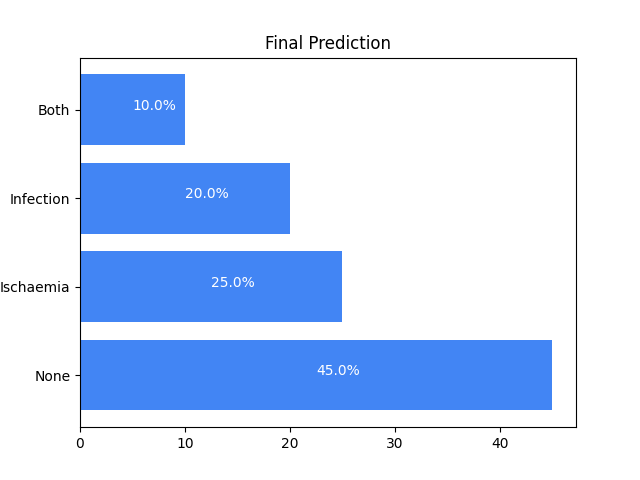
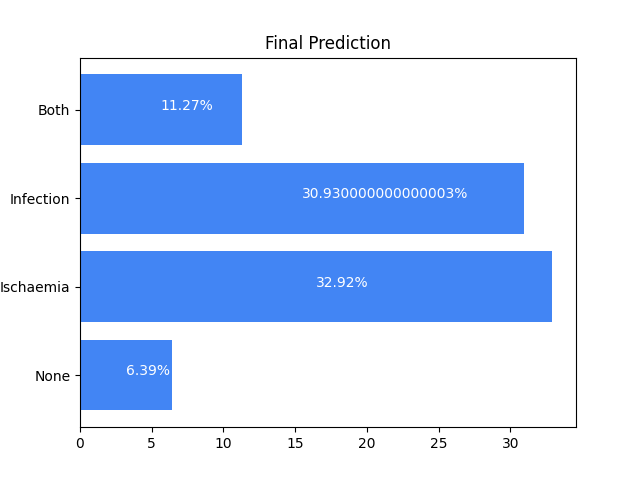
added dummy funcs, linked valuess and connect...
...results page

1. footValid is a dummy function that will be used to validate if
the user has uploaded a foot image or not
2. sending the values from the upload page to the results page
3. linked the results page to the upload page

diff --git a/upload/templates/image_form.html b/upload/templates/image_form.html
@@ -10,16 +10,16 @@
 
 
     <!-- reset the web page on hitting refresh -->
-    {% if up %}
-        {% for message in messages %}
-            <p>{{ message }}</p>
-        {% endfor %}
-        <script>
-            if ( window.history.replaceState ) {
-                window.history.replaceState( null, null, window.location.href );
-            }
-        </script>
-    {% endif %}
+    
+    {% for message in messages %}
+        <p>{{ message }}</p>
+    {% endfor %}
+    <script>
+        if ( window.history.replaceState ) {
+            window.history.replaceState( null, null, window.location.href );
+        }
+    </script>
+    
 
   
 {% endblock%}

diff --git a/results/templates/bar_chart.html b/results/templates/bar_chart.html
@@ -3,6 +3,7 @@
 
 {%block content%}
 
+
 <center><img src="../images/barchart.png" /></center>
 
 <canvas id="myChart" width="800" height="400"></canvas>

diff --git a/upload/views.py b/upload/views.py
@@ -12,7 +12,9 @@ import os
 from datetime import datetime
 import random
 from .dfuc import dfuc
-
+from django.core.validators import validate_image_file_extension
+from .footValid import footValid
+# declare vals variable to use in results\views.py
 
 config = {
     "apiKey": "AIzaSyDC2DsvGtSfGsLyavQdvpW7oi4BfXtm2RY",
@@ -32,15 +34,15 @@ storage = firebase.storage()
 data = {}
 uploaded = False
 
-
-
 def image_request(request):
     if request.method == "POST":
         form = UserImage(request.POST, request.FILES)
-        if form.is_valid():
+        img_object = form.instance
+        
+        if form.is_valid() and footValid(img_object.image):
 
-            form.save()
-            img_object = form.instance
+            #removing since redundant copies in sqlite
+            # form.save()
             a = random.randint(0, 10000)
             #pushing image to cloud storage from local
             sto = storage.child('img_'+str(a)).put(img_object.image)
@@ -50,6 +52,7 @@ def image_request(request):
             
             img_url = storage.child('img_'+str(a)).get_url(sto['downloadTokens'])
 
+            # improve this, lags realtime
             dt = datetime.now().strftime("%Y-%M-%D %H:%M:%S")
 
 
@@ -58,7 +61,8 @@ def image_request(request):
             data['img'] = img_url
 
 
-            vals = dfuc(img_object.image)
+            set_vals([i for i in dfuc(img_object.image)])
+
             data['c1'] = vals[0]
             data['c2'] = vals[1]
             data['c3'] = vals[2]
@@ -79,17 +83,21 @@ def image_request(request):
             messages.success(request, "File upload in Firebase Storage successful")
             uploaded = True
 
-            return render(
-                request, "image_form.html", {"form": form, "img_obj": img_object, "up":uploaded}
-            )
-    else:
-        form = UserImage()
+            # link to results page
+            return redirect('results')
+        else:
+        
+            messages.success(request,'Not a valid image file')
 
+    form = UserImage()
     return render(request, "image_form.html", {"form": form})
 
+def get_vals():
+    return vals
+
+def set_vals(v):
+    global vals
+    vals = v
+
 def results(request):
-    
     return render(request, "results.html")
-
-
-

diff --git a/upload/migrations/0002_alter_uploadimage_image.py b/upload/migrations/0002_alter_uploadimage_image.py
@@ -1,0 +1,22 @@
+# Generated by Django 4.1.7 on 2023-04-24 12:27
+
+import django.core.validators
+from django.db import migrations, models
+
+
+class Migration(migrations.Migration):
+
+    dependencies = [
+        ("upload", "0001_initial"),
+    ]
+
+    operations = [
+        migrations.AlterField(
+            model_name="uploadimage",
+            name="image",
+            field=models.ImageField(
+                upload_to="images",
+                validators=[django.core.validators.validate_image_file_extension],
+            ),
+        ),
+    ]

diff --git a/upload/models.py b/upload/models.py
@@ -3,13 +3,14 @@ import random
 from django.utils import timezone
 # fix this 'datetime.datetime' has no attribute 'timedelta'
 from datetime import datetime, timedelta
+from django.core.validators import validate_image_file_extension
 
 
 class UploadImage(models.Model):
     
     created_at = models.DateTimeField(auto_now_add=True)
     # add 5.5 hours to datetimefield
-    image = models.ImageField(upload_to="images")
+    image = models.ImageField(upload_to="images", validators=[validate_image_file_extension])
 
     def __str__(self):
         pass

diff --git a/results/views.py b/results/views.py
@@ -7,12 +7,15 @@ rc('text', usetex=True)
 matplotlib.use('Agg')
 from matplotlib import pyplot as plt
 import numpy as np
+import upload.views as uv
+
 # Bar Chart
 def barchart(request):
     objects = ['Both','Infection','Ischaemia','None']
     y_pos = np.arange(len(objects))
     # multiply prob by 100 to adjust to %age
-    c = [0.10,0.20,0.25,0.45]
+    # c = [0.10,0.20,0.25,0.45]
+    c = uv.get_vals()
     qty = [i*100 for i in c]
 
     plt.rcdefaults()

diff --git a/config/urls.py b/config/urls.py
@@ -5,7 +5,7 @@ from django.conf import settings
 from django.conf.urls.static import static
 
 urlpatterns = [path("admin/", admin.site.urls),
- path("", include(("upload.urls"))),
- path("results", include(("results.urls")))]
+ path("", include(("upload.urls"))),# home page
+ path("results", include(("results.urls")))] # results page
 if settings.DEBUG:
     urlpatterns += static(settings.MEDIA_URL, document_root=settings.MEDIA_ROOT)

diff --git a/upload/urls.py b/upload/urls.py
@@ -1,7 +1,13 @@
 from django.urls import path
 from . import views
+# from '../results' import views as rv
+# from results import views
+# add import for barchart
+from results.views import barchart
 
 
 urlpatterns = [
     path("", views.image_request, name="image_request"),
+    # add path to barchart view in project/results/urls.py
+    path("results", barchart, name="results"),
 ]

diff --git a/upload/dfuc.py b/upload/dfuc.py
@@ -1,6 +1,7 @@
 import random
 
 def dfuc(im):
-    random_floats = [random.uniform(0, 1) for _ in range(4)]
+    # create an array that generates 4 numbers randomly between 0 and 1 and rounds them to 2 decimal places
+    random_floats = [round(random.uniform(0, 1), 4) for _ in range(4)]
 
     return random_floats

diff --git a/config/settings.py b/config/settings.py
@@ -25,7 +25,7 @@ SECRET_KEY = "django-insecure-x!%^4b64a#k9dly6aek#3v$0n(+%)q$nnl-x$f^wb^itklf@*-
 # SECURITY WARNING: don't run with debug turned on in production!
 DEBUG = True
 
-ALLOWED_HOSTS = []
+ALLOWED_HOSTS = ['127.0.0.1', 'localhost']
 
 
 # Application definition

diff --git a/upload/admin.py b/upload/admin.py
@@ -1,3 +1,6 @@
 from django.contrib import admin
+from .models import UploadImage
 
 # Register your models here.
+
+

diff --git a/upload/footValid.py b/upload/footValid.py
@@ -1,0 +1,3 @@
+def footValid(image):
+
+    return True
